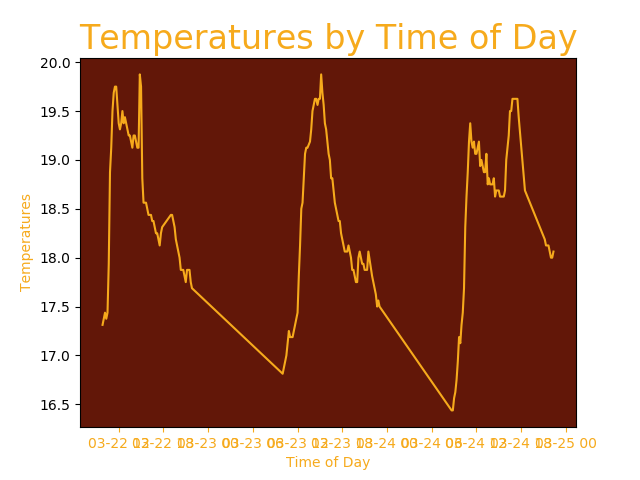
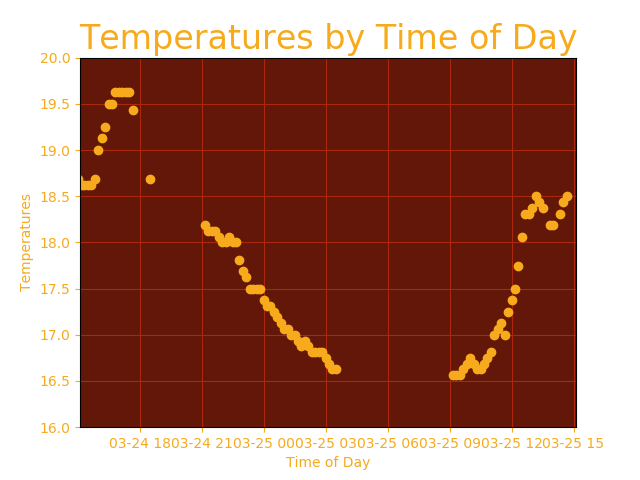
added graph grid, ranges for x and y axes, started labeltooltip

diff --git a/testplotting.py b/testplotting.py
@@ -1,20 +1,29 @@
 from model.databasetemp import get_temps, get_timestamps
+from datetime import datetime, timedelta
 import matplotlib as mpl 
 mpl.use('Agg')
 from matplotlib import pyplot as plt
-from mpld3 import fig_to_html
+from mpld3 import fig_to_html, plugins
 
 def make_plot():
-    fig = plt.figure()
+ 
+    fig, ax = plt.subplots()
     dev_x = get_temps()
     dev_y = get_timestamps()
+
+    now = datetime.now()
+    yesterday = datetime.now() - timedelta(1)
     
+   
     plt.rcParams['axes.facecolor'] = '#621708'
     plt.rcParams['axes.titlesize'] = 24
     plt.rcParams['xtick.color'] = '#F6AA1C'
+    plt.rcParams['ytick.color'] = '#F6AA1C'
+    plt.grid(b=True, color="#AA280E")
 
-
-    plt.plot(dev_y, dev_x, color= '#F6AA1C')
+    plt.plot(dev_y, dev_x, 'o', color= '#F6AA1C')
+    plt.ylim(16, 20)
+    plt.xlim(yesterday, now)
 
     plt.title('Temperatures by Time of Day', color= '#F6AA1C')
     plt.ylabel('Temperatures', color= '#F6AA1C')
@@ -22,6 +31,14 @@ def make_plot():
 
     plt.show()
 
+    
+
     fig.savefig('static/temp.png')
+   
+    lines = ax.plot(dev_y, dev_x, color= '#F6AA1C')
+    labelTooltip = plugins.LineLabelTooltip(lines[0], label='ylabel')
+    plugins.connect(fig, labelTooltip)
     plt_html = fig_to_html(fig)
+
+
     return plt_html
